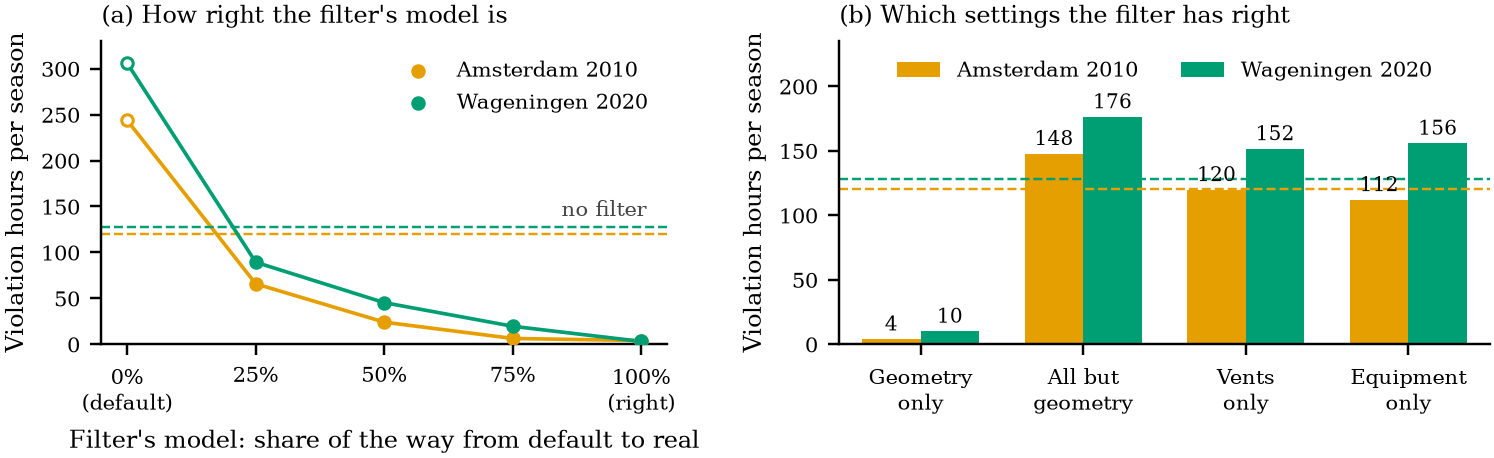
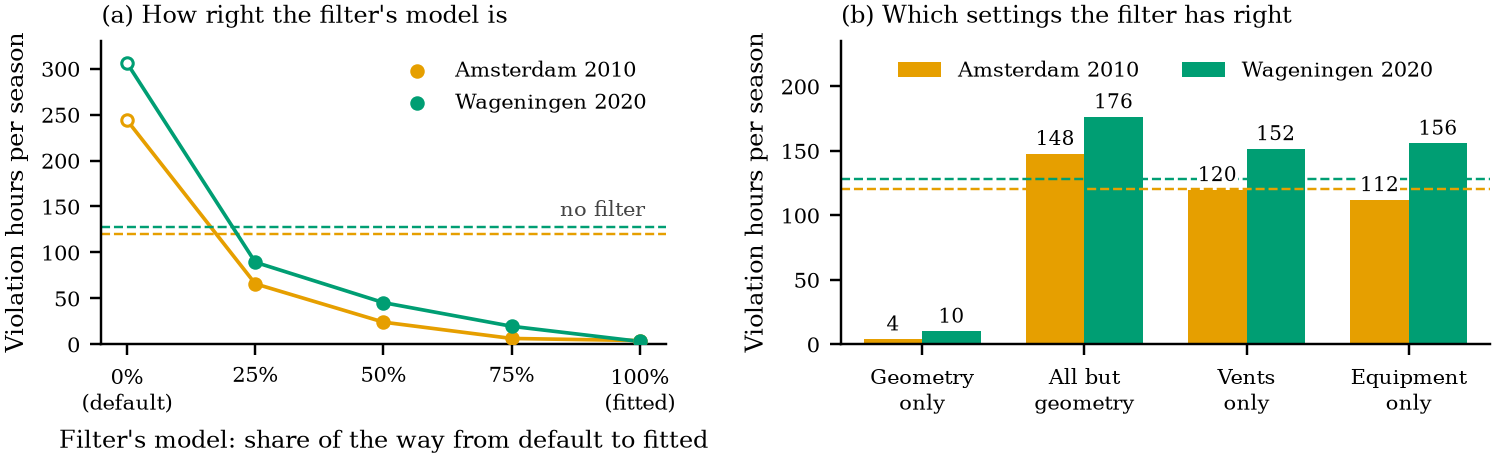
Figure 4: readable bar labels over the no-filter lines, 'fitted' instead of 'real' on the axis

diff --git a/figures/fig4_calibration.py b/figures/fig4_calibration.py
@@ -19,8 +19,8 @@ for loc, lab, col in SITES:
     a.scatter([0], [y0], facecolor="white", edgecolor=col, s=14, zorder=3)
     a.axhline(base[loc], color=col, ls="--", lw=.8)
 a.text(101, base["Wag"] + 6, "no filter", ha="right", va="bottom", fontsize=7, color="#444444")
-a.set_xticks([0, 25, 50, 75, 100], ["0%\n(default)", "25%", "50%", "75%", "100%\n(right)"])
-a.set_xlabel("Filter's model: share of the way from default to real")
+a.set_xticks([0, 25, 50, 75, 100], ["0%\n(default)", "25%", "50%", "75%", "100%\n(fitted)"])
+a.set_xlabel("Filter's model: share of the way from default to fitted")
 a.set_ylabel("Violation hours per season"); a.set_ylim(0, 330)
 a.set_title("(a) How right the filter's model is", loc="left")
 a.legend(frameon=False, loc="upper right")
@@ -30,7 +30,7 @@ x = np.arange(len(cats)); w = .36
 for j, (loc, lab, col) in enumerate(SITES):
     vals = [T3[f"right={k} {loc}"]["hours"] for _, k in cats]
     bars = b.bar(x + (j - .5)*w, vals, width=w, color=col, label=lab)
-    for xi, v in zip(x + (j - .5)*w, vals): b.text(xi, v + 3, f"{v:.0f}", ha="center", va="bottom", fontsize=6.5)
+    for xi, v in zip(x + (j - .5)*w, vals): b.text(xi, v + 3, f"{v:.0f}", ha="center", va="bottom", fontsize=6.5, zorder=5, bbox=dict(facecolor="white", edgecolor="none", pad=.4))  # white box keeps labels readable over the dashed lines
     b.hlines(base[loc], -.5, len(cats) - .5, color=col, ls="--", lw=.8)
 b.set_xticks(x, [c[0] for c in cats]); b.set_xlim(-.5, len(cats) - .5); b.set_ylim(0, 235)
 b.set_ylabel("Violation hours per season")
